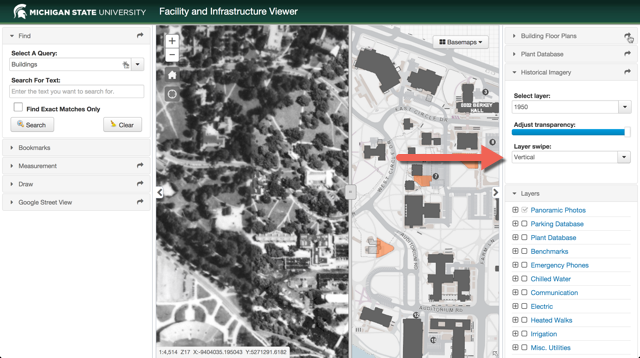
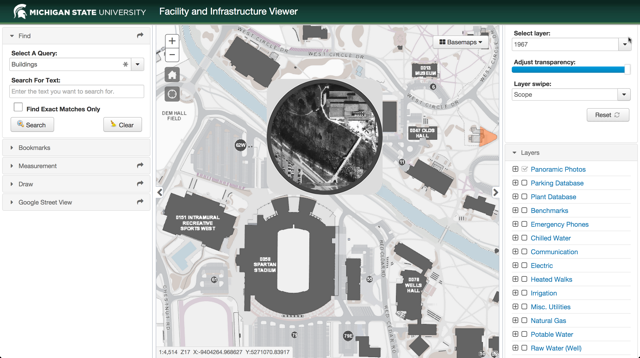
update readme and screenshots
Add note about Reset button

diff --git a/README.md b/README.md
@@ -1,14 +1,15 @@
 cmv-layer-swapper
 =================
 
-v1.2
+v1.2.1
 Layer swapper widget for [David Spriggs Configurable Map Viewer](https://github.com/DavidSpriggs/ConfigurableViewerJSAPI) 
 
 Widget designed to allow swapping of a configurable list of layers.  Most obvious use case is flipping thru historical imagery.  Works best for layers
 which should be mutually exclusive of each other.  Also allows fading of the selected layer via a slider control.
 
 New in this version:
-Added esri layerSwipe widget to allow the displayed layer to be swiped
+- Added esri layerSwipe widget to allow the displayed layer to be swiped
+- Added reset button to quickly hide the current layer and set the widget back to it's initial state
 
 
 ![Alt text](layerswapper-with-swipe-1.png?raw=true "Layer Swapper Screenshot - showing 'scope' swipe")
